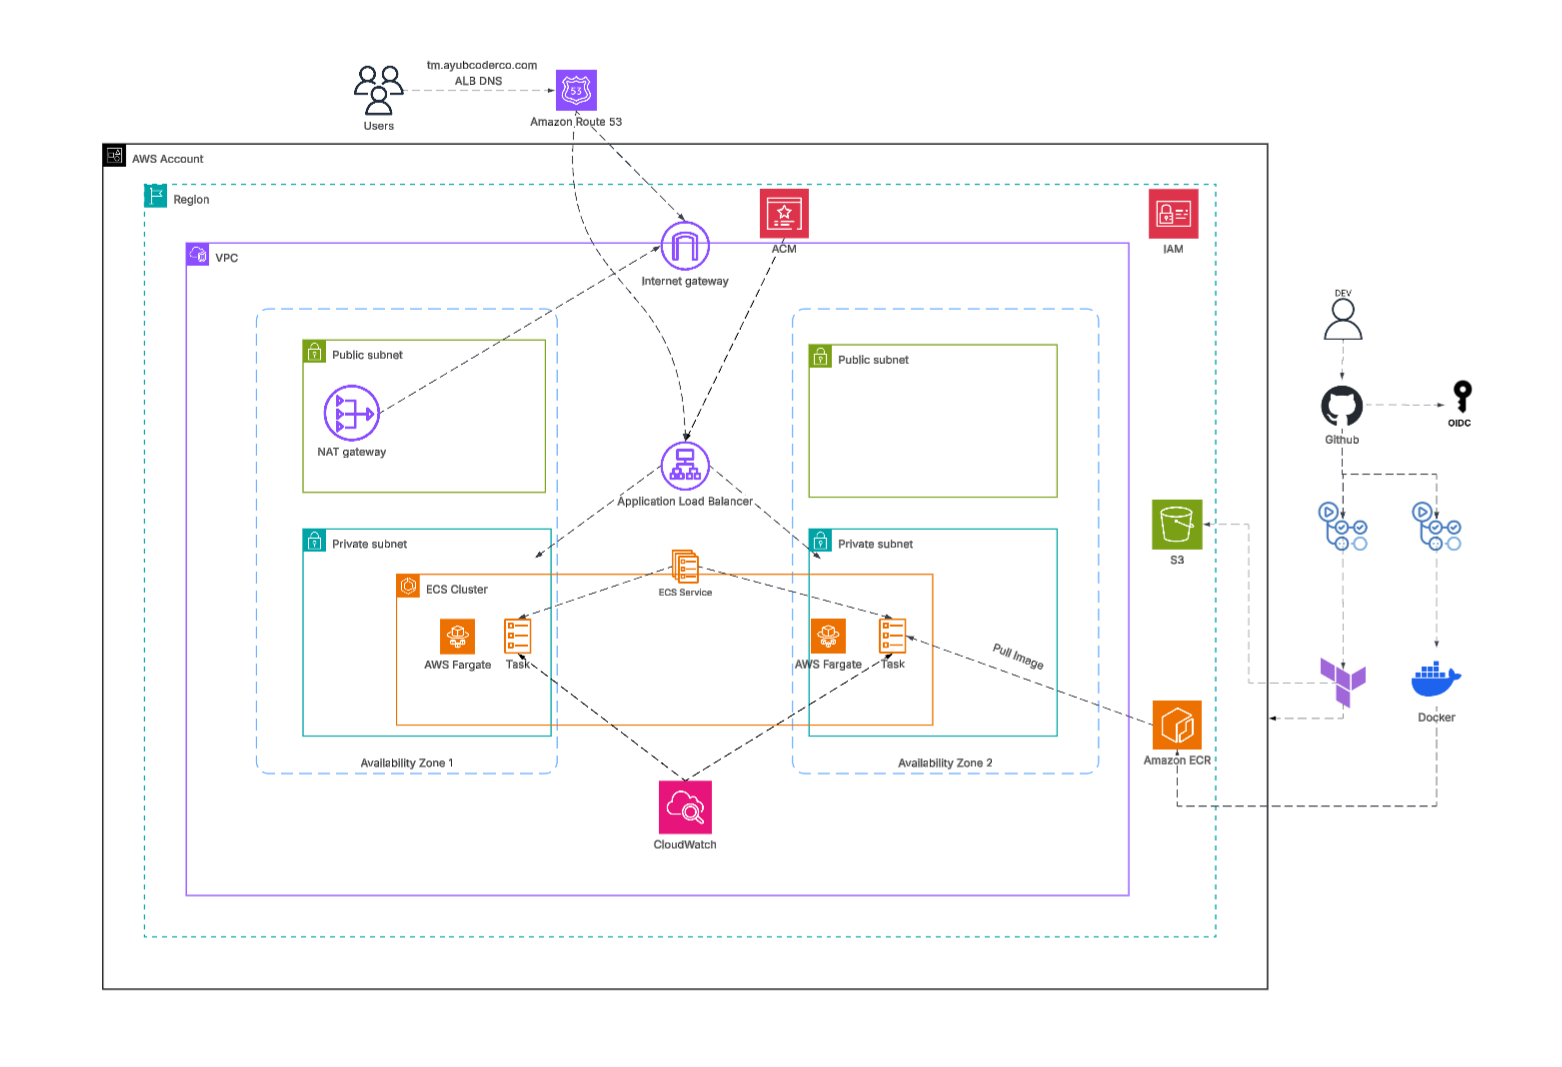
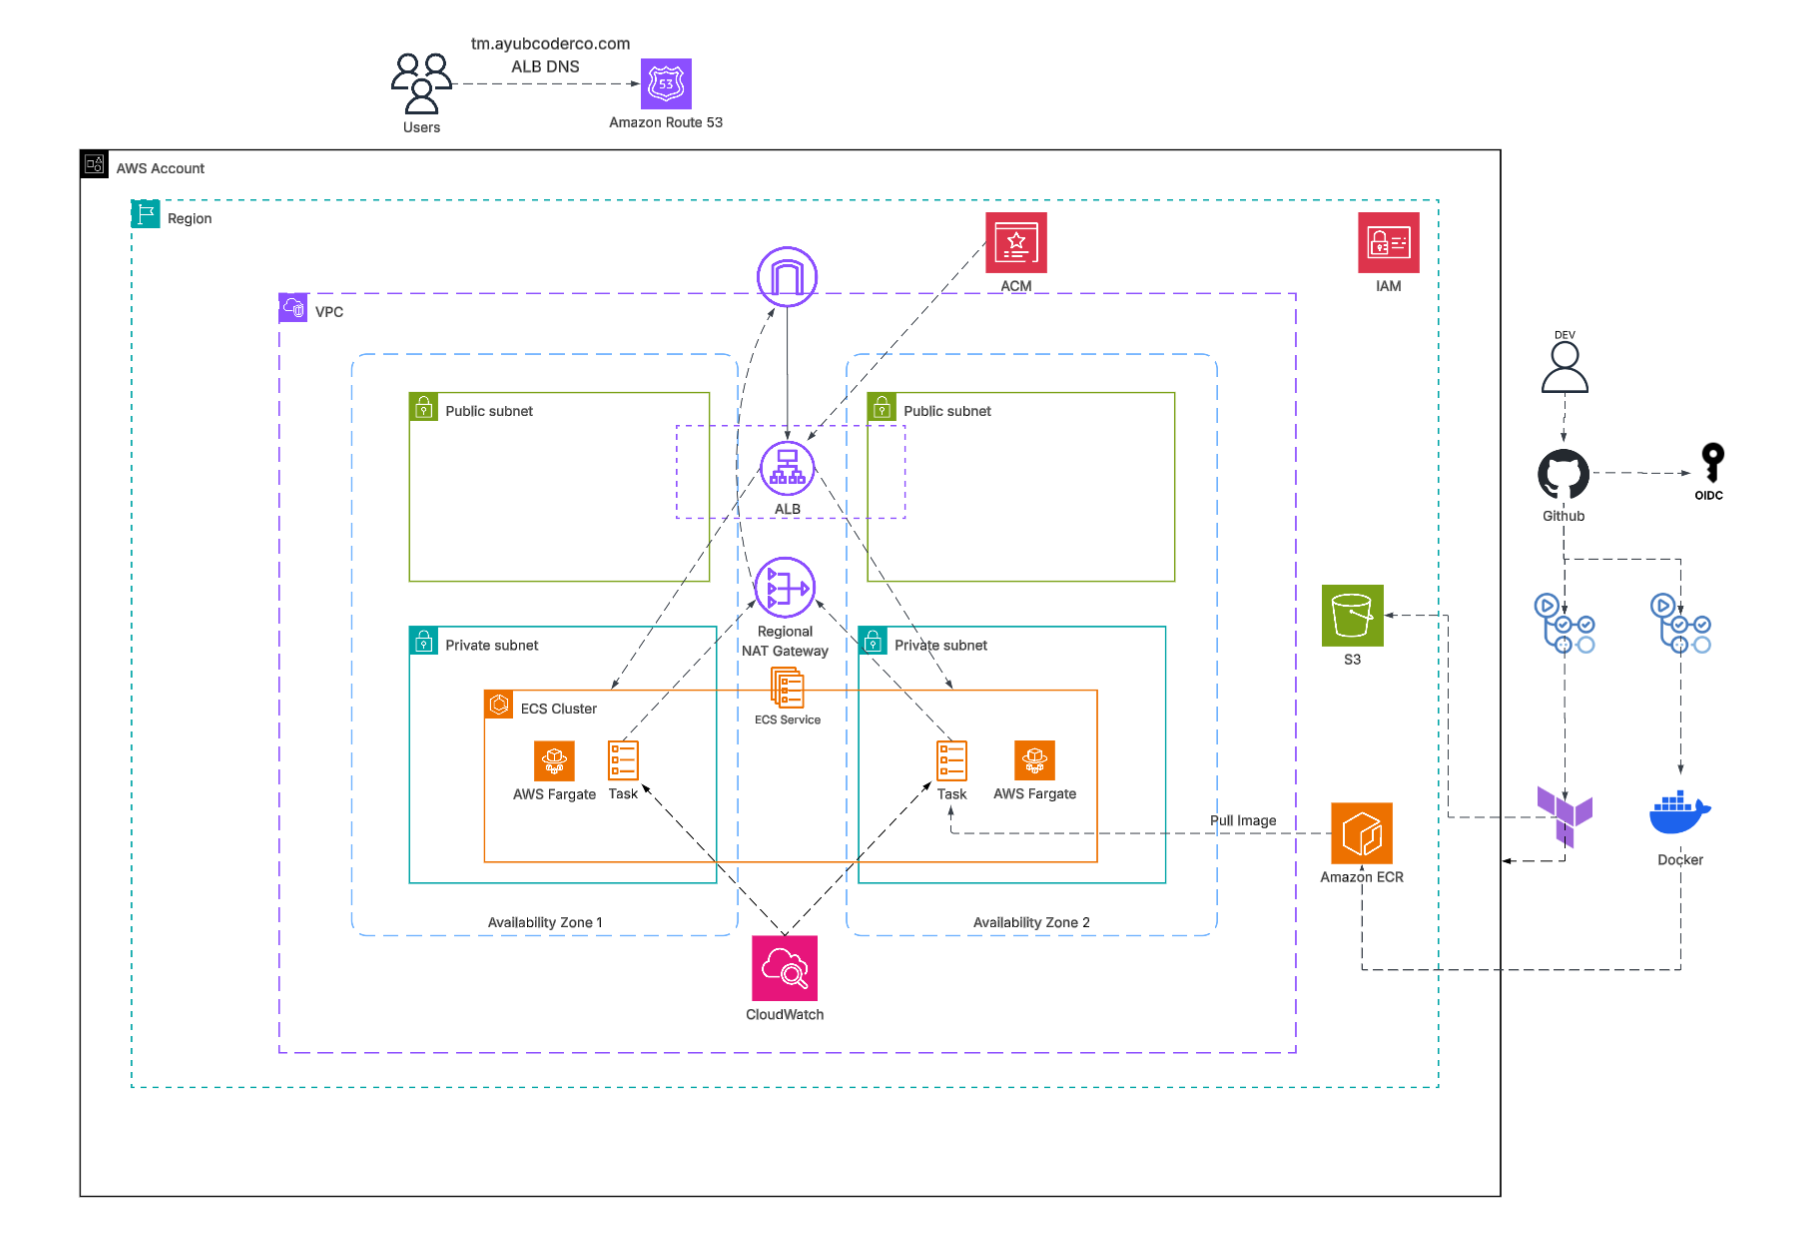
docs: update architecture diagram, add pipeline and branch protection. With small fixes for READEME [ci skip]

diff --git a/README.md b/README.md
@@ -2,14 +2,13 @@
 
 ## Overview
 
-This project delivers a monitoring app, containerised and hosted on AWS, provisioned using Terraform infrastructure-as-code (IaC). The app is deployed via GitHub Actions and is accessible through a custom domain hosted on Route 53.  
+This project delivers a Gatus monitoring application, hosted on AWS, provisioned using Terraform infrastructure-as-code (IaC), and deployed via GitHub Actions. This introduces a highly available, fault-tolerant architecture, with a custom domain resolved through Route 53.  
 
 ## Architecture
 
 ![Architecture Diagram](Images/gatus-architecture.png)
 
 ## Live Demo
-
 
 https://github.com/user-attachments/assets/de26553d-df30-4a47-a1b8-205add41835c
 
@@ -18,7 +17,7 @@ https://github.com/user-attachments/assets/de26553d-df30-4a47-a1b8-205add41835c
 
 * **Two Stage Terraform Split:** Terraform is split into two stages to tackle the circular dependency, or chicken-and-egg problem. `bootstrap` (state bucket, ECR, IAM, and OpenID Connect provider (OIDC)) and `infra` (VPC, ALB, ACM, ECS) are split. Terraform pipelines need a remote state bucket, but that same pipeline needs to run/manage infrastructure. To solve this, `bootstrap` is applied once manually to create a base resource, then everything in `infra` runs through CI/CD.
 
-* **CI/CD Authentication:** Every pipeline (build, deploy, terraform) is authenticated through AWS via GitHub using short-lived access tokens (OIDC). Each role is scoped to the exact permission required, following Role-Based Access Control (RBAC) protocols. Invisible weaknesses inside the cloud environment are avoided by having no static AWS credentials within the repository.  
+* **CI/CD Authentication:** Every pipeline (build, deploy, terraform) is authenticated through AWS via GitHub using short-lived access tokens (OIDC). Each role is scoped to the exact permission required, following Role-Based Access Control (RBAC) protocols. Invisible weaknesses in the cloud environment are avoided by not storing static AWS credentials in the repository. 
 
 * **Immutable SHA Tagged Images:** ECR images are identified by a tag, a function that works as a pointer to the latest version, whereas commit SHA tags an image with a unique identifier. Implementing commit SHA tags means any image can be traced back to exact commits, making rollback and debugging easier. `image_tag_mutability` is added as a safety measure to block any tag from being overwritten once pushed.  
 
@@ -39,7 +38,6 @@ https://github.com/user-attachments/assets/de26553d-df30-4a47-a1b8-205add41835c
 │       ├── terraform.yml
 │       └── terraform.destroy.yml
 ├── Images/
-│   └── gatus-architecture.png
 ├── app/
 ├── bootstrap/
 │   ├── main.tf
@@ -73,7 +71,7 @@ https://github.com/user-attachments/assets/de26553d-df30-4a47-a1b8-205add41835c
 
 ## Security
 
-* **OIDC Over Static Credentials:** GitHub’s OIDC provider is used to authenticate pipelines, by using a short-lived access token that expires after a short period. Each role is permission-specific and scoped to exactly what is required.  
+* **OIDC Over Static Credentials:** GitHub’s OIDC provider is used to authenticate pipelines, by using a short-lived access token that expires after a period. Each role is permission-specific and scoped to exactly what is required.  
 
 * **Scanned Before It Ships:** For security, this project implements two layers of scanning before shipping. Grype evaluates the image for vulnerabilities during the build, while Checkov scans Terraform IaC for security misconfiguration and compliance issues.   
 
@@ -99,7 +97,7 @@ https://github.com/user-attachments/assets/de26553d-df30-4a47-a1b8-205add41835c
 
 - `CKV_DOCKER_2` is triggered when a Dockerfile is missing a HEALTHCHECK. Since the final stage build is designed to be minimal and has no shell to run one, health is instead verified by the ALB target group's own health checks.
 
-- `CKV_GHA_7` is a Checkov warning concerning destroy workflow confirmation input. This is an intended configuration and not a flaw requiring change. A yes input before destroy commences is a safety measure to avoid accidental destruction of infrastructure. As extra security, input is passed as an environment variable, where the input data is treated as data to be compared and never as text syntax spliced into the script to be executed as code. 
+- `CKV_GHA_7` is a Checkov warning concerning destroy workflow confirmation input. This is an intended configuration and not a flaw requiring change. A `yes` input before destroy commences is a safety measure to avoid accidental destruction of infrastructure. As extra security, input is passed as an environment variable, where the input data is treated as data to be compared and never as text syntax spliced into the script to be executed as code. 
 
 - CloudWatch log group encryption uses the default rather than a CMK (`CKV_AWS_158`). Unlike S3 and ECR, which have a free AWS Managed key available, CloudWatch Logs would need a dedicated key and key policy for real ongoing cost.
 
@@ -224,8 +222,27 @@ terraform destroy
 
 * **Prometheus and Grafana for Monitoring:** Offers a more robust monitoring service in comparison to CloudWatch. Better querying, comprehensive dashboards, and systematic alerting systems.   
 
-* **AWS WAF for edge protection:** Integrating AWS WAF on top of the ALB would provide edge protection, filtering out SQL injections, cross-site scripting and bad IP addresses from incoming web traffic. 
+* **AWS WAF for Edge Protection:** Integrating AWS WAF on top of the ALB would provide edge protection, filtering out SQL injections, cross-site scripting and bad IP addresses from incoming web traffic. 
 
 * **AWS GuardDuty:** Enhances security by applying anomaly and threat detection services. It continuously monitors VPC and DNS logs and offers malware protection.
 
-* **VPC Gateway and Interface Endpoints:** Add gateway endpoint for S3 and interface endpoints for ECR and CloudWatch, this would allow VPC resources to connect to services privately without using the NAT Gateway. Interface Endpoints (ECR, CloudWatch) would incur small charges while keeping traffic off the NAT Gateway. Gateway endpoints (S3) come with no extra cost and increased security. 
+* **VPC Gateway and Interface Endpoints:** Add a gateway endpoint for S3 and interface endpoints for ECR and CloudWatch; this would allow VPC resources to connect to services privately without using the NAT Gateway. Interface Endpoints (ECR, CloudWatch) would incur small charges while keeping traffic off the NAT Gateway. Gateway endpoints (S3) come with no extra cost and increased security.
+
+## Screenshots 
+
+![Docker Image Size](Images/gatus-docker-image.png)
+* Docker Image Size is 13.3MB, a minimal image
+
+![Branch Protection](Images/Branch_Protection.png)
+
+![Terraform Pipeline](Images/gatus-terraform-pipeline.png)
+* Terraform plan and Apply Pipeline runs successfully
+
+![Build Pipeline](Images/gatus-build-pipeline.png)
+* Build Pipeline tags with commit SHA and pushes image to ECR 
+
+![Deploy Pipeline](Images/gatus-deploy-pipeline.png)
+* Deploy Pipeline downloads and renders task definitions before deploying to ECS.
+
+![Destroy Pipeline](Images/gatus-destroy-pipeline.png)
+* Destroy Pipeline, a successful removal of all resource. 
